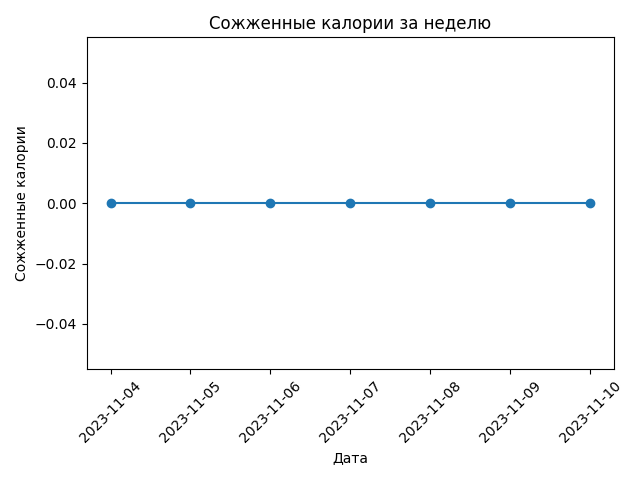
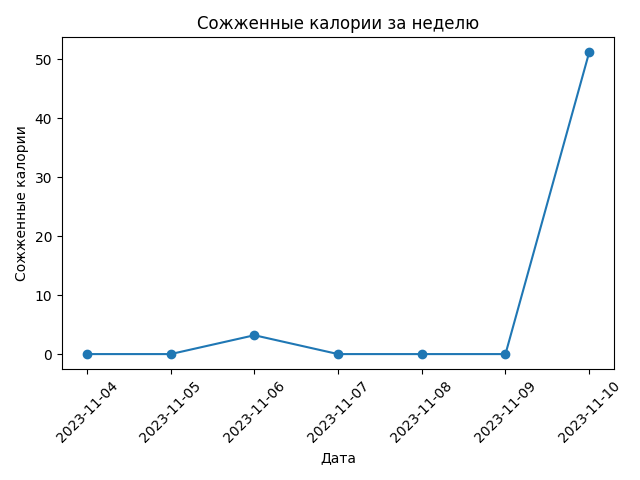
diagram of burn calories v1.2

diff --git a/appflut/webflut/views.py b/appflut/webflut/views.py
@@ -533,27 +533,6 @@ def add_activity_view(request):
 
     return HttpResponseRedirect(request.META.get('HTTP_REFERER'))
 
-# def remove_from_list(request, instance_id):
-#     if request.method == 'POST':
-#         meal_type = request.POST.get('meal_type','') # Получаем тип продукта для удаления из POST
-#         if meal_type == 'breakfast':
-#             product = get_object_or_404(Breakfast_Products, id=instance_id, user=request.user)
-#         elif meal_type == 'lunch':
-#             product = get_object_or_404(Lunch_Products, id=instance_id, user=request.user)
-#         elif meal_type == 'dinner':
-#             product = get_object_or_404(Dinner_Products, id=instance_id, user=request.user)
-#         elif meal_type == 'snack':
-#             product = get_object_or_404(Snack_Products, id=instance_id, user=request.user)
-#         elif meal_type == 'activities':
-#             product = get_object_or_404(Activities_Add, id=instance_id, user=request.user)
-#         else:
-#             raise Http404("Invalid meal type.")  # Или другой подход к обработке ошибок
-#
-#         product.delete()
-#         return redirect('calories_and_bjy')
-
-from datetime import datetime
-
 
 def remove_from_list(request, product_id):
     if request.method == 'POST':
@@ -821,27 +800,20 @@ def display_calories_chart(request):
     personal_info = Personal_Inform.objects.get(user=user)
     weight = float(personal_info.weight)
 
-    # Вычислите начало недели
     week_start = datetime.now().date() - timedelta(days=6)
-
-    # Получите активности пользователя за последние 7 дней
     activities = Activities_Add.objects.filter(user=user, date__date__range=[week_start, datetime.now().date()])
 
-    # Создайте словарь для хранения суммы сожженных калорий для каждого дня
     calories_by_day = {}
 
-    # Пройдитесь по активностям и вычислите сумму калорий для каждого дня
     for activity in activities:
         day = activity.date.date()
         burned_calories = round(activity.product.met * weight / activity.time, 1)
         if day not in calories_by_day:
-            calories_by_day[day] = burned_calories
-        else:
-            calories_by_day[day] += burned_calories
+            calories_by_day[day] = 0
+        calories_by_day[day] += max(burned_calories, 0)
 
-    # Создайте списки для дат и сожженных калорий для использования на диаграмме
-    dates = [(week_start + timedelta(days=i)).strftime('%Y-%m-%d') for i in range(7)]
-    calories = [calories_by_day.get(date, 0) for date in dates]
+    dates = [day.strftime('%Y-%m-%d') for day in (week_start + timedelta(days=i) for i in range(7))]
+    calories = [calories_by_day.get(datetime.strptime(date, '%Y-%m-%d').date(), 0) for date in dates]
 
     plt.plot(dates, calories, marker='o')
     plt.xlabel('Дата')
@@ -850,13 +822,12 @@ def display_calories_chart(request):
     plt.xticks(rotation=45)
     plt.tight_layout()
 
-    # Получите путь к текущему файлу
     current_path = os.path.dirname(os.path.abspath(__file__))
     image_dir = os.path.join(current_path, 'static', 'phototest')
     os.makedirs(image_dir, exist_ok=True)
 
     image_path = os.path.join(image_dir, 'calories_chart.png')
-    plt.savefig(image_path)  # Сохранить диаграмму как изображение
+    plt.savefig(image_path)
     plt.close()
 
     return render(request, 'chart.html', {'image_path': '/static/phototest/calories_chart.png'})
